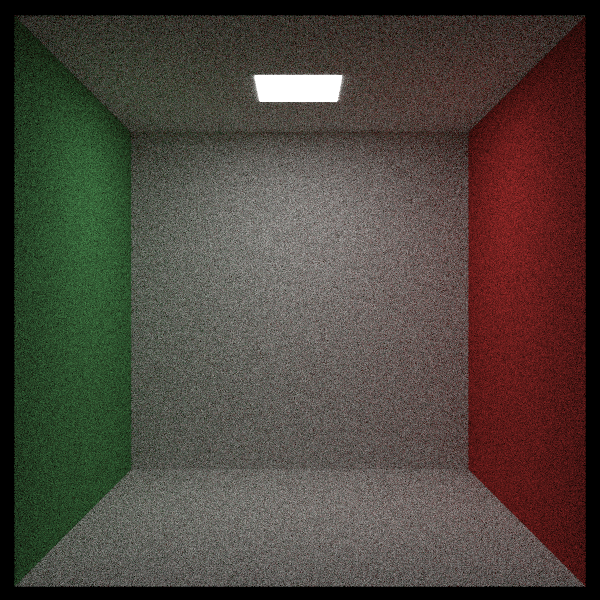
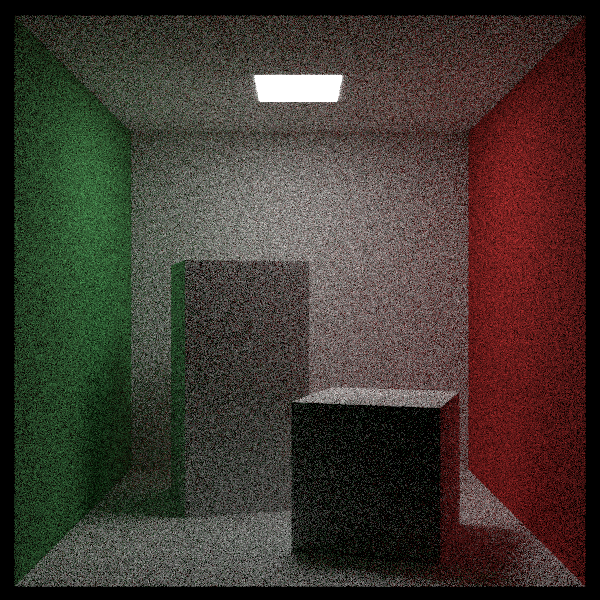
Added instancing and transformations

diff --git a/src/transform.rs b/src/transform.rs
@@ -1,0 +1,123 @@
+use std::sync::Arc;
+
+use crate::{aabb::*, hittable::*, ray::*, vec3::*};
+
+pub struct Translate {
+    object: Arc<H>,
+    offset: Vec3,
+}
+
+impl Translate {
+    pub fn new(object: Arc<H>, offset: Vec3) -> Self {
+        Self { object, offset }
+    }
+}
+
+impl Hittable for Translate {
+    fn hit(&self, ray: &Ray, t_min: F, t_max: F) -> Option<HitRecord> {
+        let translated_ray = Ray::new(ray.origin() - self.offset, ray.direction(), ray.time());
+
+        if let Some(mut hit_record) = self.object.hit(&translated_ray, t_min, t_max) {
+            hit_record.set_p(hit_record.p() + self.offset);
+            hit_record.set_face_normal(&translated_ray, hit_record.n());
+            Some(hit_record)
+        } else {
+            None
+        }
+    }
+
+    fn bounding_box(&self, time0: F, time1: F) -> Option<AABB> {
+        if let Some(output_box) = self.object.bounding_box(time0, time1) {
+            Some(AABB::new(output_box.min() + self.offset, output_box.max() + self.offset))
+        } else {
+            None
+        }
+    }
+}
+
+
+// Currently only on Y axis
+// TODO - implement for other axes
+
+pub struct Rotate {
+    object: Arc<H>,
+    cos_theta: F,
+    sin_theta: F,
+    bbox: Option<AABB>,
+}
+
+impl Rotate {
+    pub fn new(object: Arc<H>, theta: F) -> Self {
+        let radians = deg_to_rad(theta);
+        let cos_theta = radians.cos();
+        let sin_theta = radians.sin();
+
+        let bbox = object.bounding_box(0.0, 1.0).unwrap();
+
+        let infinity = f64::INFINITY;
+        let mut min = Point3::new(infinity, infinity, infinity);
+        let mut max = Point3::new(-infinity, -infinity, -infinity);
+
+        for i in 0..2 {
+            for j in 0..2 {
+                for k in 0..2 {
+                    let x = i as F * bbox.max().x() + (1 - i) as F * bbox.min().x();
+                    let y = j as F * bbox.max().y() + (1 - j) as F * bbox.min().y();
+                    let z = k as F * bbox.max().z() + (1 - k) as F * bbox.min().z();
+
+                    let new_x = cos_theta * x + sin_theta * z;
+                    let new_z = -sin_theta * x + cos_theta * z;
+
+                    let temp = Vec3::new(new_x, y, new_z);
+                    
+                    for a in 0..2 {
+                        min.set(a, min.ix(a).min(temp.ix(a)));
+                        max.set(a, max.ix(a).max(temp.ix(a)));
+                    }
+
+                }
+            }
+        }
+
+        let bbox = Some(AABB::new(min, max));
+
+        Self { object, sin_theta, cos_theta, bbox }
+    }
+}
+
+impl Hittable for Rotate {
+    fn hit(&self, ray: &Ray, t_min: F, t_max: F) -> Option<HitRecord> {
+        let mut origin = ray.origin();
+        let mut direction = ray.direction();
+
+        origin.set(0, self.cos_theta * ray.origin().ix(0) - self.sin_theta * ray.origin().ix(2));
+        origin.set(2, self.sin_theta * ray.origin().ix(0) + self.cos_theta * ray.origin().ix(2));
+
+        direction.set(0, self.cos_theta * ray.direction().ix(0) - self.sin_theta * ray.direction().ix(2));
+        direction.set(2, self.sin_theta * ray.direction().ix(0) + self.cos_theta * ray.direction().ix(2));
+
+        let rotated_ray = Ray::new(origin, direction, ray.time());
+
+        if let Some(mut hit_record) = self.object.hit(&rotated_ray, t_min, t_max) {
+            let mut new_p = hit_record.p();
+            new_p.set(0, self.cos_theta * hit_record.p().ix(0) + self.sin_theta * hit_record.p().ix(2));
+            new_p.set(2, -self.sin_theta * hit_record.p().ix(0) + self.cos_theta * hit_record.p().ix(2));
+
+            let mut new_n = hit_record.n();
+            new_n.set(0, self.cos_theta * hit_record.n().ix(0) + self.sin_theta * hit_record.n().ix(2));
+            new_n.set(2, -self.sin_theta * hit_record.n().ix(0) + self.cos_theta * hit_record.n().ix(2));
+
+            hit_record.set_p(new_p);
+            hit_record.set_face_normal(&rotated_ray, new_n);
+
+            Some(hit_record)
+        } else {
+            None
+        }
+    }
+
+    fn bounding_box(&self, _time0: F, _time1: F) -> Option<AABB> {
+        self.bbox
+    }
+}
+

diff --git a/src/aarect.rs b/src/aarect.rs
@@ -1,6 +1,6 @@
 use std::sync::Arc;
 
-use crate::{aabb::AABB, hittable::*, ray::Ray, texture::*, vec3::*};
+use crate::{aabb::*, hittable::*, ray::*, texture::*, vec3::*};
 
 pub enum Plane {
     XY,
@@ -66,16 +66,46 @@ impl Hittable for AARect {
     }
 
     fn bounding_box(&self, _time0: F, _time1: F) -> Option<AABB> {
+        let depth = 1e-4;
         let order = self.axes();
 
         let mut min = Point3::zero();
-        min.set_all(order, (self.a0, self.b0, self.k - 0.001));
+        min.set_all(order, (self.a0, self.b0, self.k - depth));
         let mut max = Point3::zero();
-        max.set_all(order, (self.a1, self.b1, self.k + 0.001)); 
+        max.set_all(order, (self.a1, self.b1, self.k + depth)); 
 
         Some(AABB::new(min, max))
 
     }
 }
+ 
+pub struct AABox {
+    min: Point3,
+    max: Point3,
+    sides: HittableList,
+}
 
+impl AABox {
+    pub fn new(min: Point3, max: Point3, material: Arc<M>) -> Self {
+        let mut sides = HittableList::new();
 
+        sides.add(Arc::new(AARect::new(Plane::XY, min.x(), max.x(), min.y(), max.y(), max.z(), Arc::clone(&material)))); 
+        sides.add(Arc::new(AARect::new(Plane::XY, min.x(), max.x(), min.y(), max.y(), min.z(), Arc::clone(&material)))); 
+        sides.add(Arc::new(AARect::new(Plane::ZX, min.z(), max.z(), min.x(), max.x(), max.y(), Arc::clone(&material))));
+        sides.add(Arc::new(AARect::new(Plane::ZX, min.z(), max.z(), min.x(), max.x(), min.y(), Arc::clone(&material))));
+        sides.add(Arc::new(AARect::new(Plane::YZ, min.y(), max.y(), min.z(), max.z(), max.x(), Arc::clone(&material))));
+        sides.add(Arc::new(AARect::new(Plane::YZ, min.y(), max.y(), min.z(), max.z(), min.x(), Arc::clone(&material))));
+
+        Self { min, max, sides }
+    }
+}
+
+impl Hittable for AABox {
+    fn hit(&self, ray: &Ray, t_min: F, t_max: F) -> Option<HitRecord> {
+        self.sides.hit(ray, t_min, t_max)
+    }
+
+    fn bounding_box(&self, _time0: F, _time1: F) -> Option<AABB> {
+        Some(AABB::new(self.min, self.max))
+    }
+}

diff --git a/src/bin/main.rs b/src/bin/main.rs
@@ -7,13 +7,13 @@ use rayon::prelude::*;
 
 use std::{error::Error, fs, io::Write, sync::Arc};
 
-use raytracer::{aarect::*, camera::*, hittable::*, material::*, moving_sphere::*, ray::*, sphere::*, texture::*, vec3::*};
+use raytracer::{aarect::*, camera::*, hittable::*, material::*, moving_sphere::*, ray::*, sphere::*, texture::*, transform::*, vec3::*};
 
 // Image Constants
 const ASPECT_RATIO: F = 1.0;
 const IMAGE_HEIGHT: u32 = 600;
 const IMAGE_WIDTH: u32 = (IMAGE_HEIGHT as F * ASPECT_RATIO) as u32;
-const SAMPLES_PER_PIXEL: u32 = 500;
+const SAMPLES_PER_PIXEL: u32 = 200;
 const MAX_DEPTH: u32 = 50;
 
 fn main() -> Result<(), Box<dyn Error>> {
@@ -284,6 +284,25 @@ fn _cornell_box() -> (Camera, HittableList) {
     world.add(Arc::new(AARect::new(Plane::ZX, 0.0, 555.0, 0.0, 555.0, 0.0, Arc::clone(&white))));
     world.add(Arc::new(AARect::new(Plane::ZX, 0.0, 555.0, 0.0, 555.0, 555.0, Arc::clone(&white))));
     world.add(Arc::new(AARect::new(Plane::XY, 0.0, 555.0, 0.0, 555.0, 555.0, Arc::clone(&white))));
+
+    let box1 = Arc::new(AABox::new(
+        Point3::zero(),
+        Point3::new(165.0, 330.0, 165.0), 
+        Arc::clone(&white)));
+    let box2 = Arc::new(AABox::new(
+        Point3::zero(),
+        Point3::new(165.0, 165.0, 165.0), 
+        Arc::clone(&white)));
+
+    let box1 = Translate::new(
+        Arc::new(Rotate::new(box1, 15.0)),
+        Vec3::new(265.0, 0.0, 295.0));
+    let box2 = Translate::new(
+        Arc::new(Rotate::new(box2, -18.0)),
+        Vec3::new(130.0, 0.0, 65.0));
+
+    world.add(Arc::new(box1));
+    world.add(Arc::new(box2));
 
     (camera, world)
 }

diff --git a/src/vec3.rs b/src/vec3.rs
@@ -227,6 +227,10 @@ pub fn clamp(x: F, min: F, max: F) -> F {
     }
 }
 
+pub fn deg_to_rad(deg: F) -> F {
+    deg * std::f64::consts::PI / 180.0
+}
+
 // Random
 pub fn random() -> F {
     thread_rng().gen::<F>()

diff --git a/src/hittable.rs b/src/hittable.rs
@@ -59,6 +59,10 @@ impl HitRecord {
             -outward_normal
         };
     }
+
+    pub fn set_p(&mut self, new_p: Point3) {
+        self.p = new_p;
+    }
 }
 
 pub struct HittableList {

diff --git a/src/camera.rs b/src/camera.rs
@@ -65,7 +65,3 @@ impl Camera {
         )
     }
 }
-
-fn deg_to_rad(deg: F) -> F {
-    deg * std::f64::consts::PI / 180.0
-}

diff --git a/src/lib.rs b/src/lib.rs
@@ -9,4 +9,5 @@ pub mod perlin;
 pub mod ray;
 pub mod sphere;
 pub mod texture;
+pub mod transform;
 pub mod vec3;
